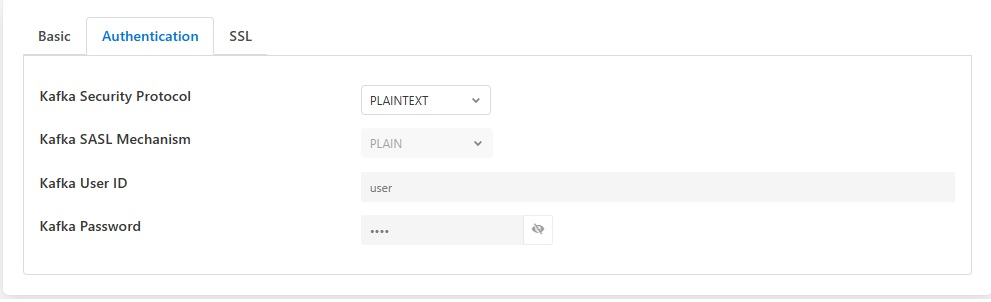
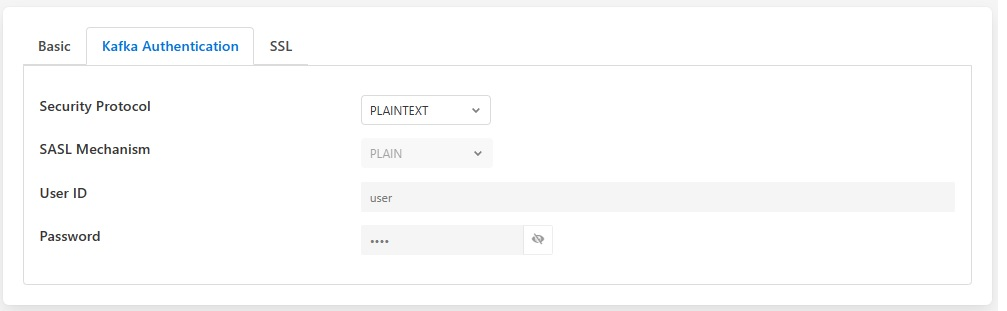
FOGL-7859: Review comment fixed

diff --git a/plugin.cpp b/plugin.cpp
@@ -1,5 +1,5 @@
 /*
- * FogLAMP Kafka north plugin.
+ * Fledge Kafka north plugin.
  *
  * Copyright (c) 2018 Dianomic Systems
  *
@@ -35,21 +35,21 @@ static const char *default_config = QUOTE({
 	"brokers": {
 		"description": "The bootstrap broker list to retrieve full Kafka brokers",
 		"type": "string",
-		"order": "9",
+		"order": "1",
 		"displayName": "Bootstrap Brokers", 
 		"default": "localhost:9092,kafka.local:9092"
 		},
 	"topic": {
 		"description": "The topic to send reading data on",
-		"order": "10",
+		"order": "2",
 		"displayName": "Kafka Topic",
-		"type": "string", "default": "FogLAMP"
+		"type": "string", "default": "Fledge"
 		},
 	"json": {
 		"description": "Send as JSON objects or as strings",
 		"type": "enumeration",
 		"default": "Strings",
-		"order": "11",
+		"order": "3",
 		"displayName": "Send JSON",
 		"options" : ["Objects","Strings"]
 		},
@@ -57,18 +57,18 @@ static const char *default_config = QUOTE({
 		"description": "Security protocol to be used to connect with kafka broker",
 		"type": "enumeration",
 		"default": "PLAINTEXT",
-		"order": "12",
-		"group": "Authentication",
-		"displayName": "Kafka Security Protocol",
+		"order": "4",
+		"group": "Kafka Authentication",
+		"displayName": "Security Protocol",
 		"options" : ["PLAINTEXT", "SASL_PLAINTEXT", "SSL", "SASL_SSL"]
 		},
 	"KafkaSASLMechanism": {
 		"description": "Security protocol to be used to connect with kafka broker",
 		"type": "enumeration",
 		"default": "PLAIN",
-		"order": "13",
-		"group": "Authentication",
-		"displayName": "Kafka SASL Mechanism",
+		"order": "5",
+		"group": "Kafka Authentication",
+		"displayName": "SASL Mechanism",
 		"options" : ["PLAIN", "GSSAPI", "OAUTHBEARER", "SCRAM-SHA-256", "SCRAM-SHA-512"],
 		"validity" : "KafkaSecurityProtocol == \"SASL_PLAINTEXT\" || KafkaSecurityProtocol == \"SASL_SSL\""
 		},
@@ -76,34 +76,34 @@ static const char *default_config = QUOTE({
 		"description": "User ID to be used with SASL_PLAINTEXT security protocol",
 		"type": "string",
 		"default": "user",
-		"order": "14",
-		"group": "Authentication",
-		"displayName": "Kafka User ID",
+		"order": "6",
+		"group": "Kafka Authentication",
+		"displayName": "User ID",
 		"validity" : "KafkaSecurityProtocol == \"SASL_PLAINTEXT\" || KafkaSecurityProtocol == \"SASL_SSL\""
 		},
 	"KafkaPassword": {
 		"description": "Password to be used with SASL_PLAINTEXT security protocol",
 		"type": "password",
 		"default": "pass",
-		"order": "15",
-		"group": "Authentication",
-		"displayName": "Kafka Password",
+		"order": "7",
+		"group": "Kafka Authentication",
+		"displayName": "Password",
 		"validity" : "KafkaSecurityProtocol == \"SASL_PLAINTEXT\" || KafkaSecurityProtocol == \"SASL_SSL\""
 		},
 	"SSL_CA_File": {
 		"description": "Name of Root CA to use in certificate verification",
 		"type": "string",
 		"default": "",
-		"order": "16",
+		"order": "8",
 		"displayName": "Root CA Name",
 		"validity": "KafkaSecurityProtocol == \"SSL\" || KafkaSecurityProtocol == \"SASL_SSL\"",
 		"group": "SSL"
 		},
-	"SSL_CERT_FILE": {
+	"SSL_CERT": {
 		"description": "Name of client certificate for identity authentications",
 		"type": "string",
 		"default": "",
-		"order": "17",
+		"order": "9",
 		"displayName": "Certificate Name",
 		"validity": "KafkaSecurityProtocol == \"SSL\" || KafkaSecurityProtocol == \"SASL_SSL\"",
 		"group": "SSL"
@@ -112,7 +112,7 @@ static const char *default_config = QUOTE({
 		"description": "Name of client private key required for communication",
 		"type": "string",
 		"default": "",
-		"order": "18",
+		"order": "10",
 		"displayName": "Private Key Name",
 		"validity": "KafkaSecurityProtocol == \"SSL\" || KafkaSecurityProtocol == \"SASL_SSL\"",
 		"group": "SSL"
@@ -121,7 +121,7 @@ static const char *default_config = QUOTE({
 		"description": "Optional: Password to be used when loading the certificate chain",
 		"type": "password",
 		"default": "",
-		"order": "19",
+		"order": "11",
 		"displayName": "SSL Certificate Password",
 		"validity": "KafkaSecurityProtocol == \"SSL\" || KafkaSecurityProtocol == \"SASL_SSL\"",
 		"group": "SSL"
@@ -130,7 +130,7 @@ static const char *default_config = QUOTE({
 		"description": "The source of data to send",
 		"type": "enumeration",
 		"default": "readings",
-		"order": "20",
+		"order": "12",
 		"displayName": "Data Source",
 		"options" : ["readings","statistics"]
 		}

diff --git a/kafka.cpp b/kafka.cpp
@@ -1,5 +1,5 @@
 /*
- * FogLAMP Kafka north plugin.
+ * Fledge Kafka north plugin.
  *
  * Copyright (c) 2018 Dianomic Systems
  *
@@ -146,6 +146,7 @@ void Kafka::applyConfig_Basic(ConfigCategory*& configData)
                               errstr, sizeof(errstr)) != RD_KAFKA_CONF_OK)
 	{
 		Logger::getLogger()->fatal(errstr);
+		rd_kafka_conf_destroy(m_conf);
 		throw exception();
 	}
 
@@ -153,6 +154,7 @@ void Kafka::applyConfig_Basic(ConfigCategory*& configData)
                               errstr, sizeof(errstr)) != RD_KAFKA_CONF_OK)
 	{
 		Logger::getLogger()->fatal(errstr);
+		rd_kafka_conf_destroy(m_conf);
 		throw exception();
 	}
 }
@@ -177,7 +179,7 @@ void Kafka::applyConfig_SASL_PLAINTEXT(ConfigCategory*& configData, const string
 	}
 
 	// Set the security mechanisms
-	// TODO : Implementation of following mechanisms is pending "GSSAPI", "OAUTHBEARER", "SCRAM-SHA-256", "SCRAM-SHA-512"
+	// TODO : FOGL-7945 - Implementation of following mechanisms is pending "GSSAPI", "OAUTHBEARER", "SCRAM-SHA-256", "SCRAM-SHA-512"
 	if (rd_kafka_conf_set(m_conf, "sasl.mechanisms", "PLAIN", errstr, sizeof(errstr)) != RD_KAFKA_CONF_OK) 
 	{
 		Logger::getLogger()->fatal("Failed to set security mechanism: %s",errstr);
@@ -234,7 +236,7 @@ void Kafka::applyConfig_SSL(ConfigCategory*& configData, const string& kafkaSecu
 	// Set SASL username
 	if (rd_kafka_conf_set(m_conf, "sasl.username", configData->getValue("KafkaUserID").c_str(), errstr, sizeof(errstr)) != RD_KAFKA_CONF_OK) 
 	{
-		Logger::getLogger()->debug("Failed to set SASL user name: %s",errstr);
+		Logger::getLogger()->debug("Failed to set SASL username: %s",errstr);
 		rd_kafka_conf_destroy(m_conf);
 		throw exception();
 	}
@@ -263,9 +265,9 @@ void Kafka::applyConfig_SSL(ConfigCategory*& configData, const string& kafkaSecu
 	}
 	
 	// Set the SSL Certificate Location
-	if (!configData->getValue("SSL_CERT_FILE").empty())
+	if (!configData->getValue("SSL_CERT").empty())
 	{
-		if (rd_kafka_conf_set(m_conf, "ssl.certificate.location", (storeLocation + configData->getValue("SSL_CERT_FILE")).c_str(), errstr, sizeof(errstr)) != RD_KAFKA_CONF_OK) 
+		if (rd_kafka_conf_set(m_conf, "ssl.certificate.location", (storeLocation + configData->getValue("SSL_CERT")).c_str(), errstr, sizeof(errstr)) != RD_KAFKA_CONF_OK) 
 		{
 			Logger::getLogger()->fatal("Failed to set SSL certificate location: %s",errstr);
 			rd_kafka_conf_destroy(m_conf);

diff --git a/include/kafka.h b/include/kafka.h
@@ -1,7 +1,7 @@
 #ifndef _KAFKA_H
 #define _KAFKA_H
 /*
- * FogLAMP Kafka north plugin.
+ * Fledge Kafka north plugin.
  *
  * Copyright (c) 2018 Dianomic Systems
  *      

diff --git a/docs/index.rst b/docs/index.rst
@@ -16,7 +16,7 @@ The configuration of the *Kafka* plugin is very simple, consisting of four param
 
   - **Bootstrap Brokers**: A comma separate list of Kafka brokers to use to establish a connection to the Kafka system.
 
-  - **Kafka Topic**: The Kafka topic to which all data is sent.
+  - **Topic**: The Kafka topic to which all data is sent.
 
   - **Send JSON**: This controls how JSON data points should be sent to Kafka. These may be sent as strings or as JSON objects.
 
@@ -26,13 +26,13 @@ The configuration of the *Kafka* plugin is very simple, consisting of four param
 | |kafka_2| |
 +-----------+
 
-  - **Kafka Security Protocol**: Security protocol to be used to connect with kafka broker.
+  - **Security Protocol**: Security protocol to be used to connect with kafka broker.
 
-  - **Kafka SASL Mechanism**: SASL Mechanism. Only PLAIN mechanism is supported, support for other will be added soon
+  - **SASL Mechanism**: SASL Mechanism. Only PLAIN mechanism is supported, support for other will be added soon
 
-  - **Kafka User ID**: User ID to be used with SASL_PLAINTEXT and SASL_SSL.
+  - **User ID**: User ID to be used with SASL_PLAINTEXT and SASL_SSL.
 
-  - **Kafka Password**: Password to be used with SASL_PLAINTEXT and SASL_SSL.
+  - **Password**: Password to be used with SASL_PLAINTEXT and SASL_SSL.
 
 +-----------+
 | |kafka_3| |
@@ -46,5 +46,14 @@ The configuration of the *Kafka* plugin is very simple, consisting of four param
 
   - **SSL Certificate Password**: Optional: Password to be used when loading the certificate chain.
 
-All the certificates must be added into the certificate store of the Fledge
+All the certificate must be added into the certicate store of Fledge
+
+Kafka plugin can also be used to send data to Azure event hub. To send data to Azure event hub you need to set plugin configuration as below
+
+  - **Bootstrap Brokers**: Azure event hub endpoint
+  - **Topic**: Azure event hub name
+  - **Security Protocol**: SASL_SSL
+  - **SASL Mechanism**: PLAIN
+  - **User ID**: $ConnectionString
+  - **SSL Certificate Password**:  Must be set blank
 
